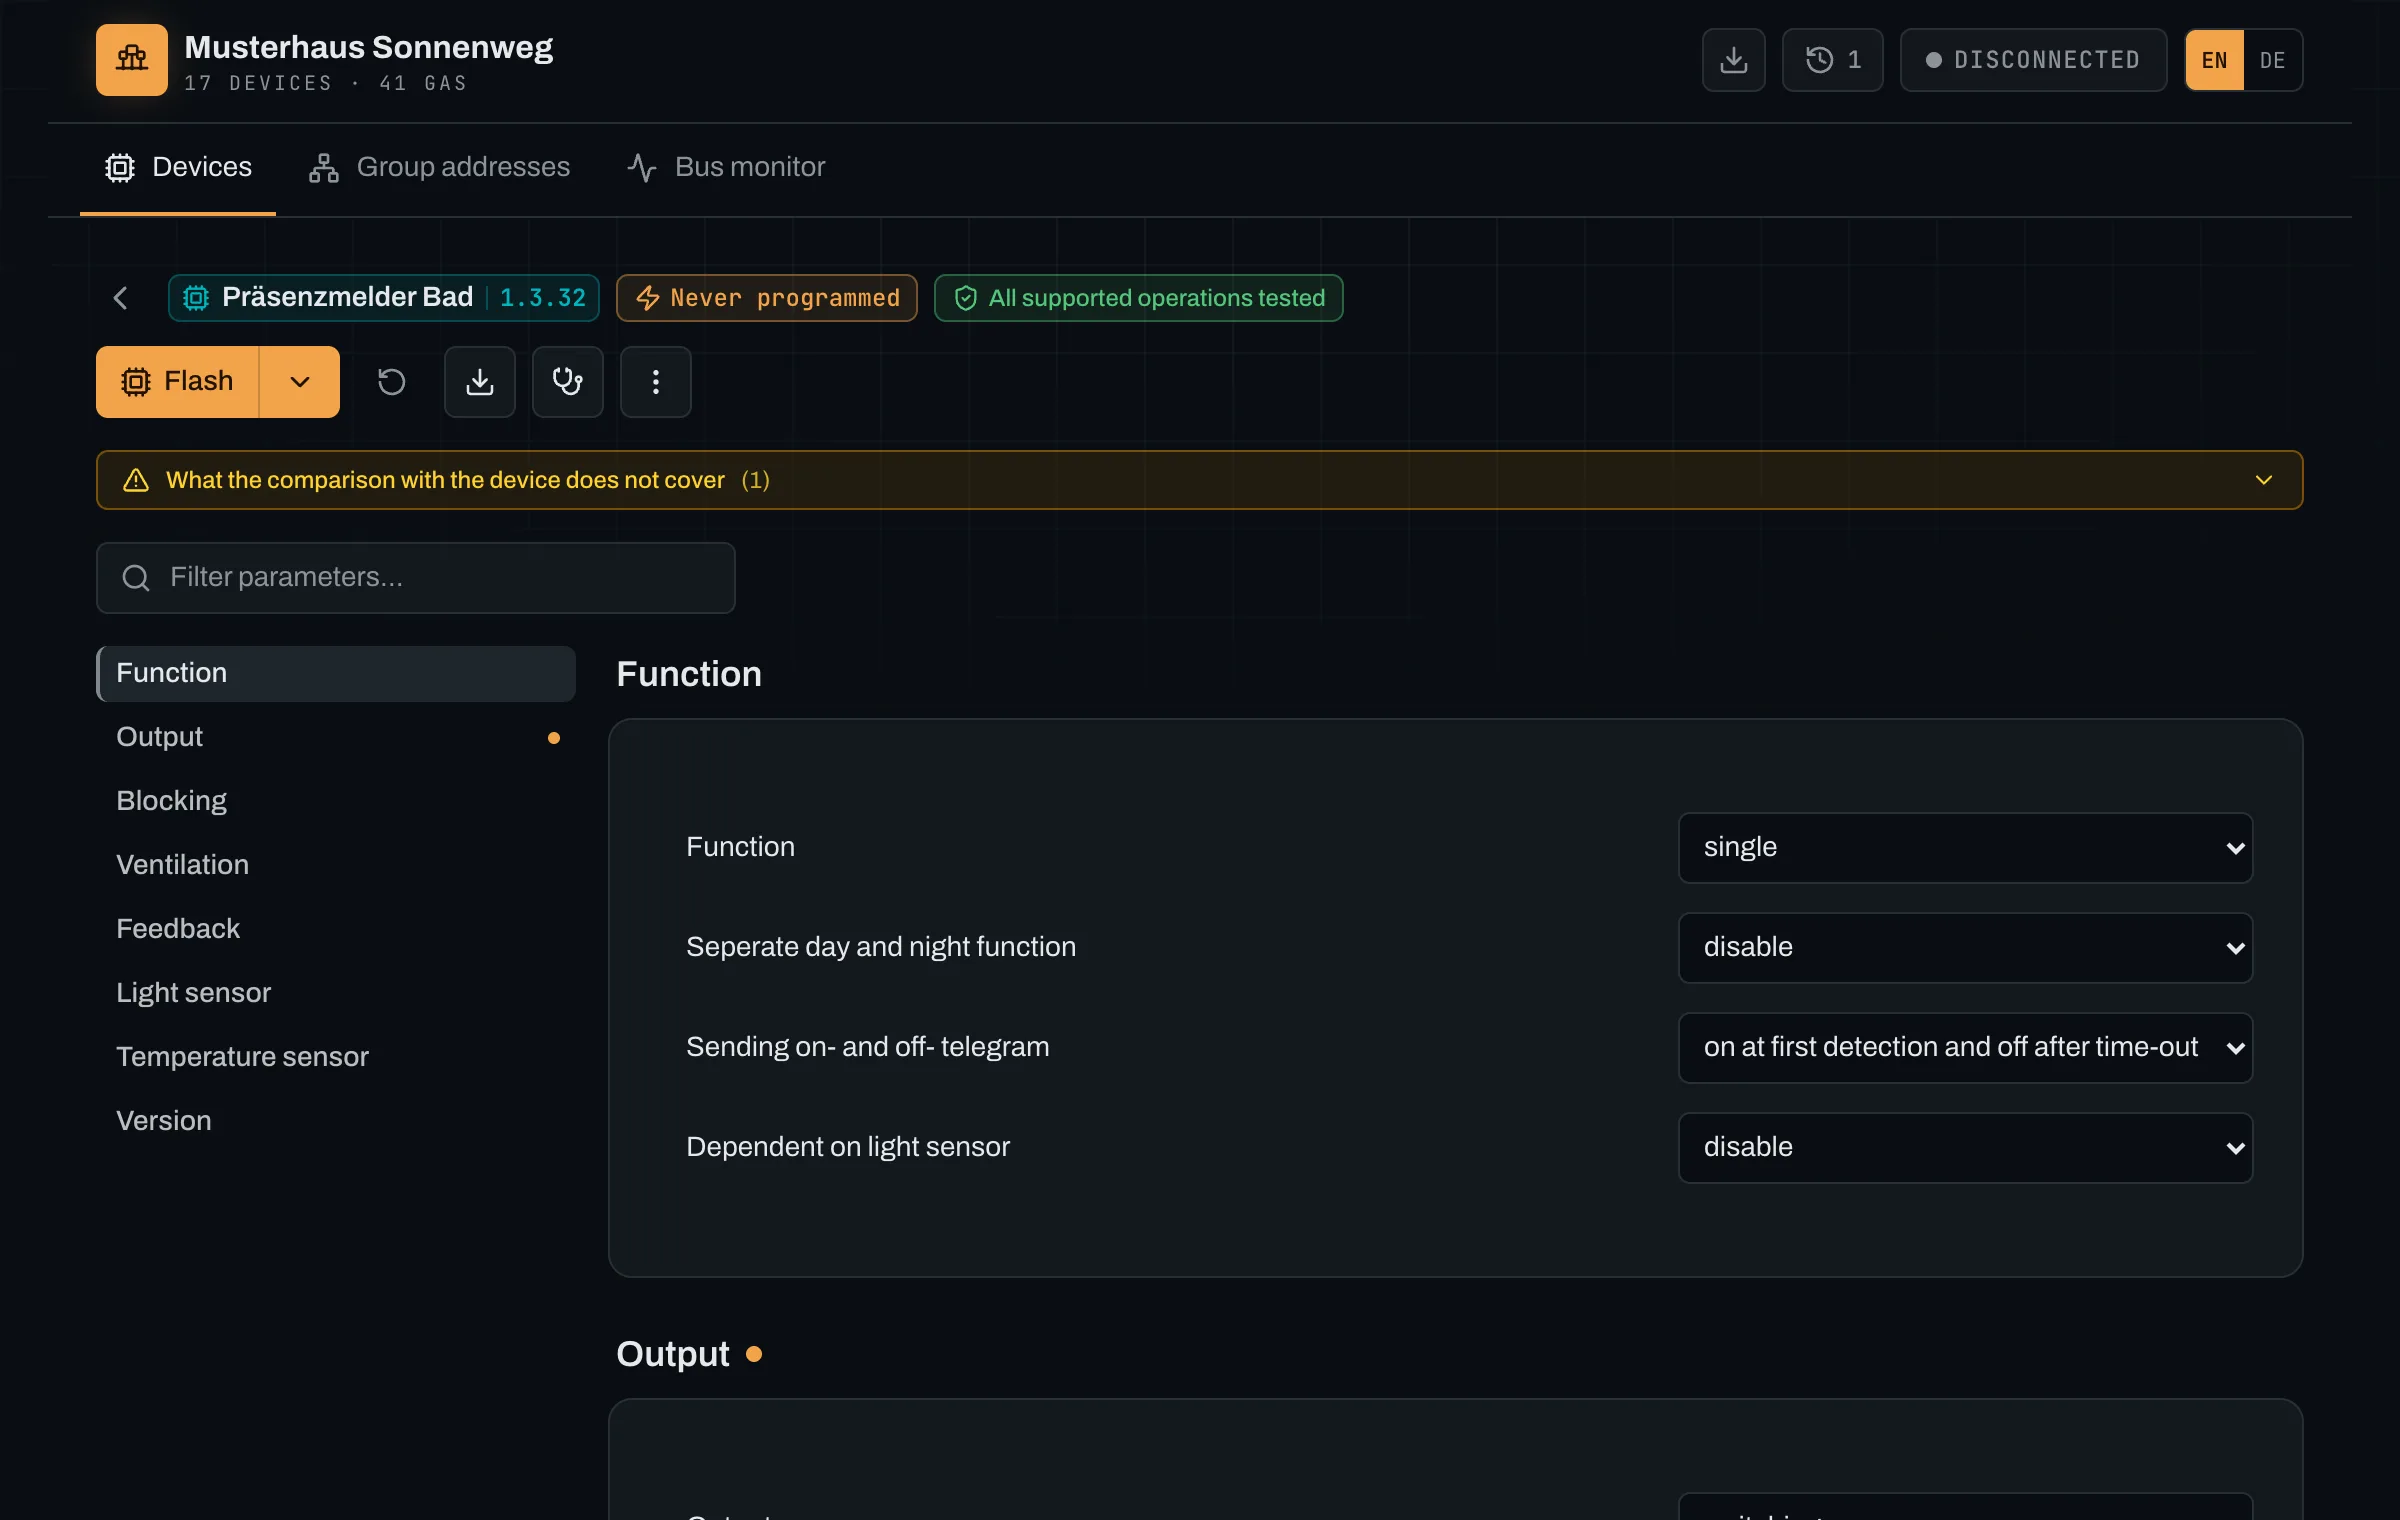
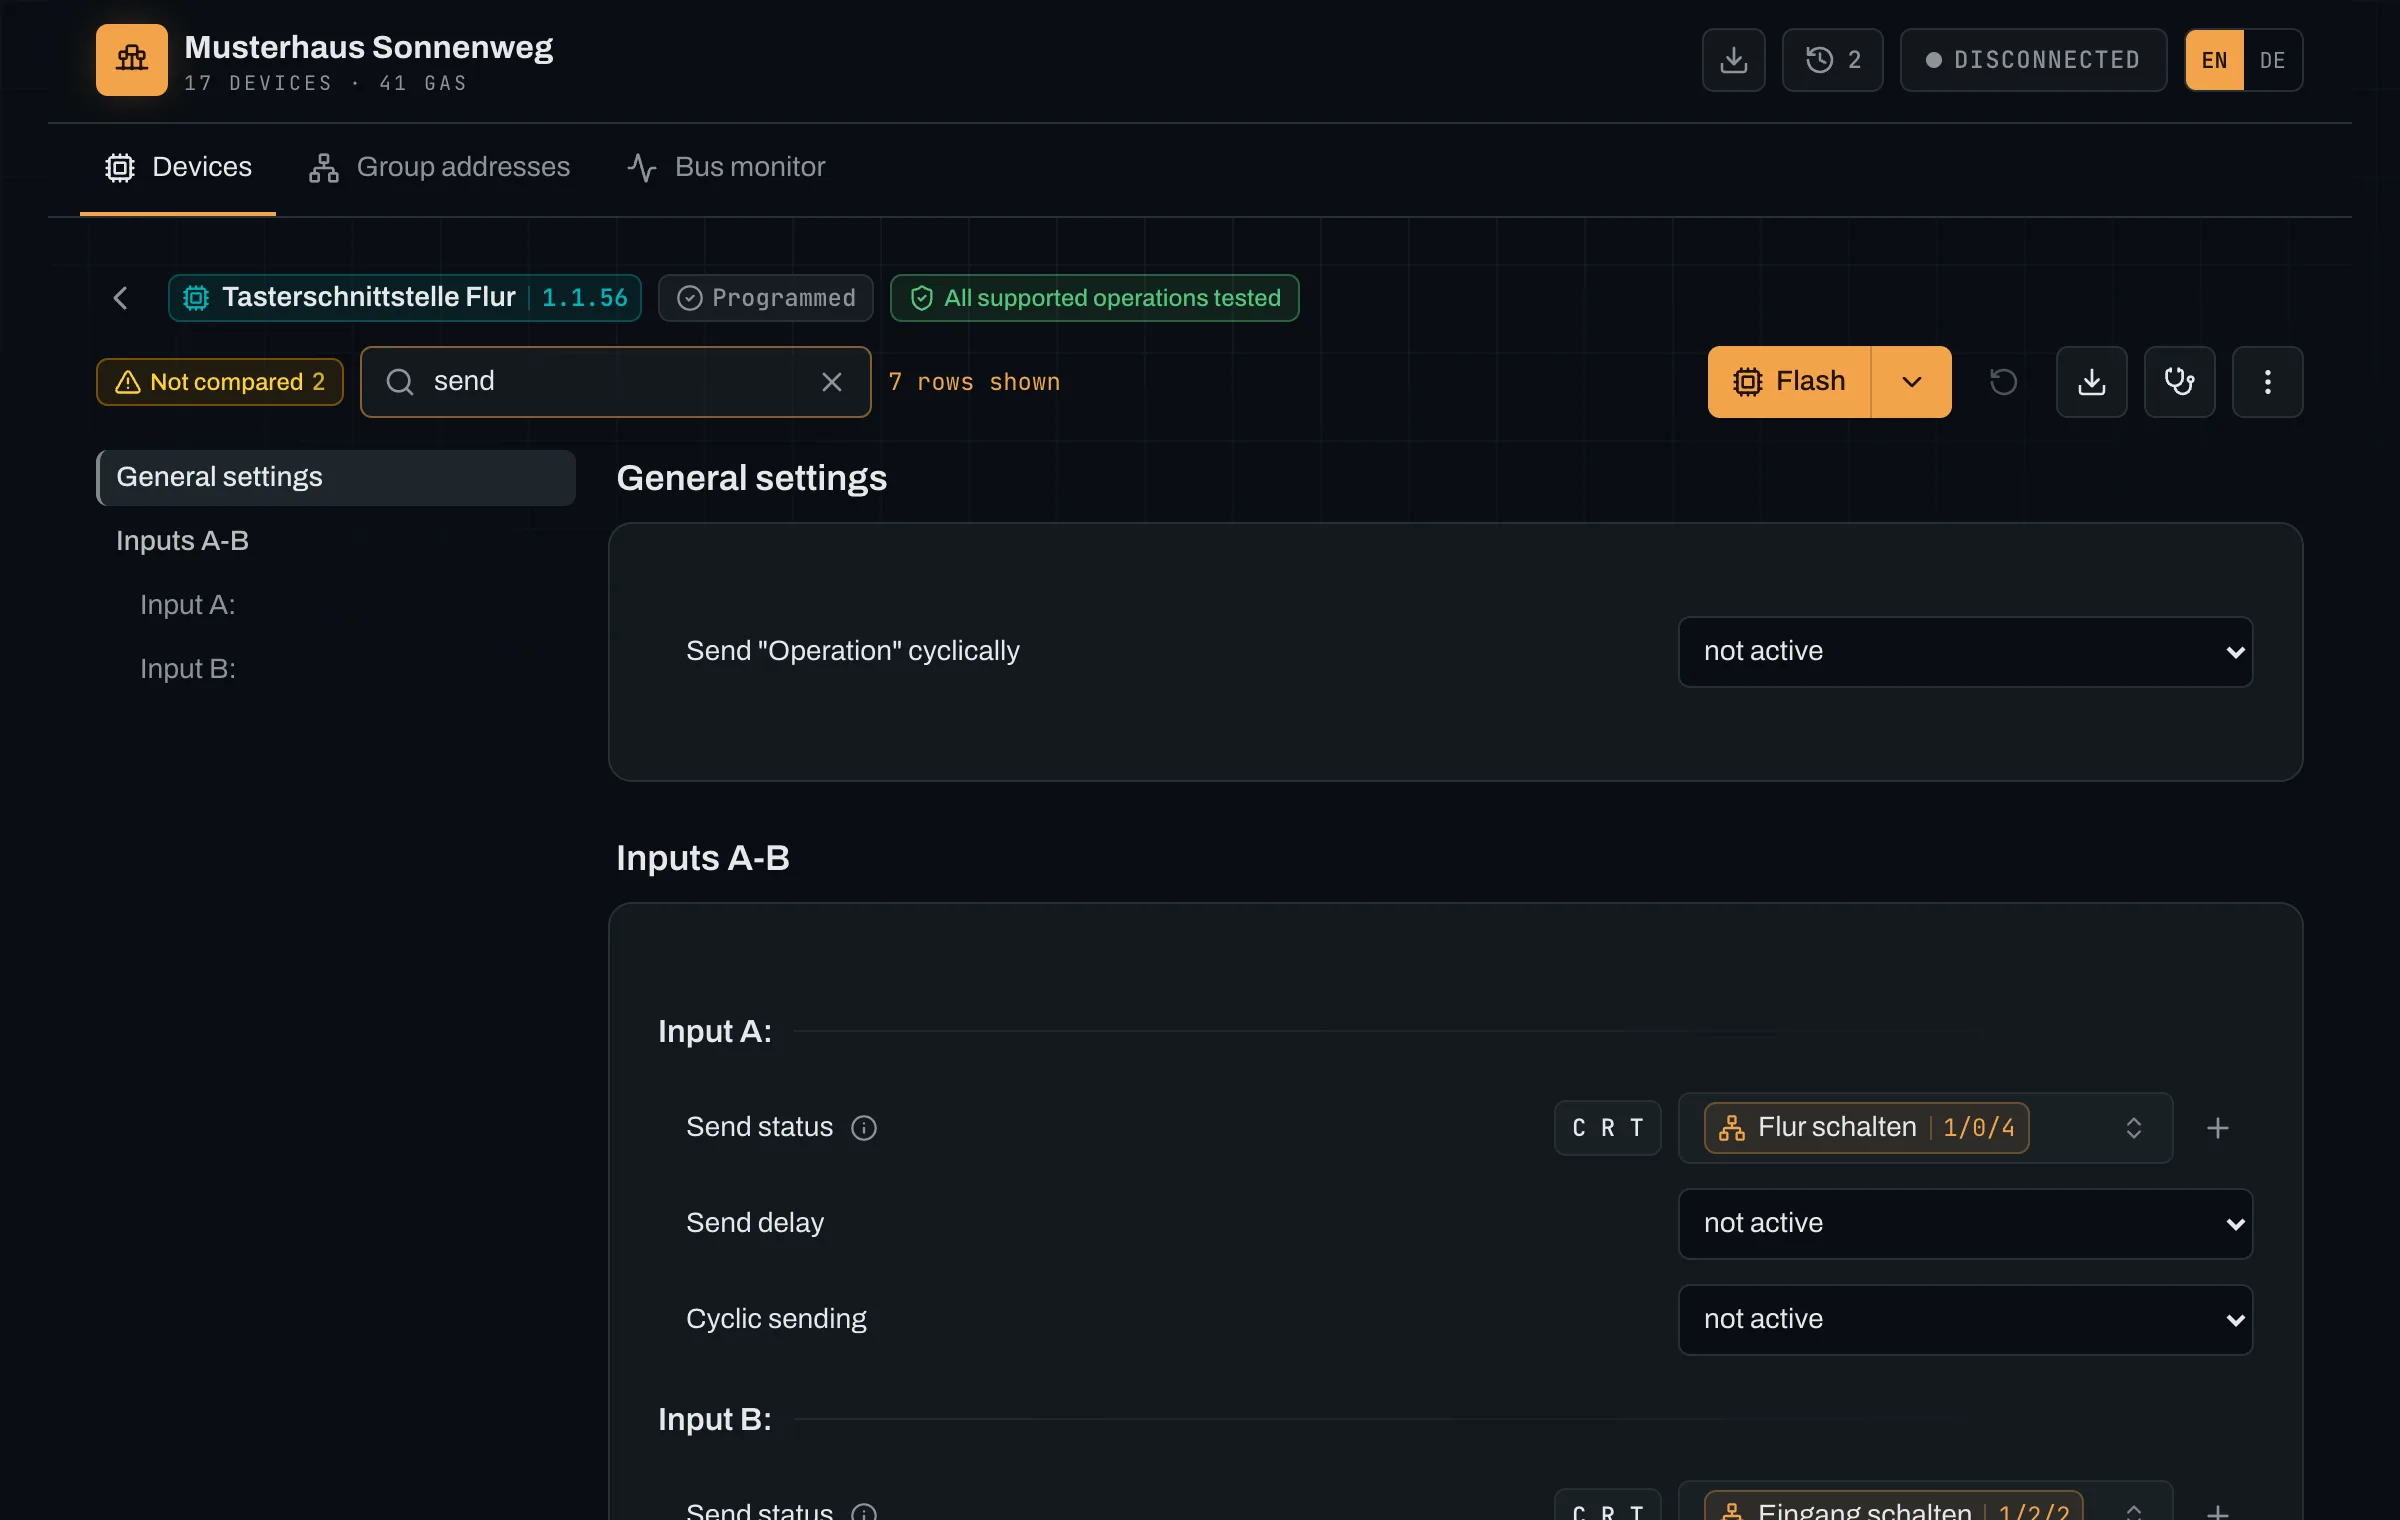
Show a programmed, tested device from the test bench in the hero, the compatibility view and the diagnostic package, and a real flash preview of one changed parameter and one changed group address

diff --git a/index.html b/index.html
@@ -62,7 +62,7 @@
       </div>
       <figure class="shot">
         <div class="chrome" aria-hidden="true"><span class="dots"><i></i><i></i><i></i></span><span class="url">127.0.0.1:3000</span></div>
-        <a href="/img/app-params.webp" class="zoom"><img src="/img/app-params.webp" width="2400" height="1520" alt="Busforge device page of a presence detector: its parameter pages, an output linked to a group address with its change marker, the mark that every operation Busforge supports for this product is tested, and the Flash button." fetchpriority="high"></a>
+        <a href="/img/app-params.webp" class="zoom"><img src="/img/app-params.webp" width="2400" height="1520" alt="Busforge device page of an MDT universal interface, programmed and with every operation Busforge supports for the product tested: the parameters filtered for sending, each input's status object linked to a group address, and the Flash button." fetchpriority="high"></a>
       </figure>
     </section>
 
@@ -281,7 +281,7 @@ docker run -d --name busforge \
     <section class="band" aria-labelledby="tour-h">
       <div class="wrap">
         <h2 id="tour-h">The application</h2>
-        <p class="intro">Screens from the demo project: an invented house with seventeen devices of ten manufacturers.</p>
+        <p class="intro">Screens from the demo project: an invented house with seventeen devices of ten manufacturers, one of them programmed on a test bench.</p>
         <div class="tour">
           <div class="row">
             <figure class="shot">
@@ -306,21 +306,21 @@ docker run -d --name busforge \
           <div class="row">
             <figure class="shot narrow">
               <div class="chrome" aria-hidden="true"><span class="dots"><i></i><i></i><i></i></span><span class="url">127.0.0.1:3000</span></div>
-              <a href="/img/app-flash.webp" class="zoom"><img src="/img/app-flash.webp" width="510" height="467" loading="lazy" alt="Program dialog for an MDT door contact interface: the partial flash is refused because no configuration was verified on the device yet, and the full download preview says it will rewrite 278 bytes including the com-object table."></a>
+              <a href="/img/app-flash.webp" class="zoom"><img src="/img/app-flash.webp" width="1320" height="760" loading="lazy" alt="Program dialog for the MDT universal interface after one parameter and one group address were changed: checked against the device, 2 of 168 configuration bytes and 3 of 115 group address bytes will change."></a>
             </figure>
             <div>
               <h3>A preview before every write</h3>
-              <p>The program dialog first checks against the real device and says what it would write. Here a device that Busforge has never programmed: the partial flash is refused, and the full download shows its size before you start it.</p>
+              <p>The program dialog first checks against the real device and says what it would write. Here one parameter and one group address were changed: only the regions that differ are written, each backed up first and read back after.</p>
             </div>
           </div>
           <div class="row flip">
             <figure class="shot">
               <div class="chrome" aria-hidden="true"><span class="dots"><i></i><i></i><i></i></span><span class="url">127.0.0.1:3000</span></div>
-              <a href="/img/app-compat.webp" class="zoom"><img src="/img/app-compat.webp" width="1424" height="1005" loading="lazy" alt="Compatibility popover of a presence detector: every operation, from reading parameters to the structural flash, tested on hardware with firmware 6, and the explanation of what tested means."></a>
+              <a href="/img/app-compat.webp" class="zoom"><img src="/img/app-compat.webp" width="1424" height="1028" loading="lazy" alt="Compatibility popover of the MDT universal interface: every operation, from reading parameters to the structural flash, tested on hardware, and the explanation of what tested means."></a>
             </figure>
             <div>
               <h3>What has been shown for this product</h3>
-              <p>Each operation with its state from the kept evidence, here a presence detector tested on everything Busforge supports for it. A product nobody has tested says so, and is written only after you confirm it for the project.</p>
+              <p>Each operation with its state from the kept evidence, here a universal interface tested on everything Busforge supports for it. A product nobody has tested says so, and is written only after you confirm it for the project.</p>
             </div>
           </div>
           <div class="row">
